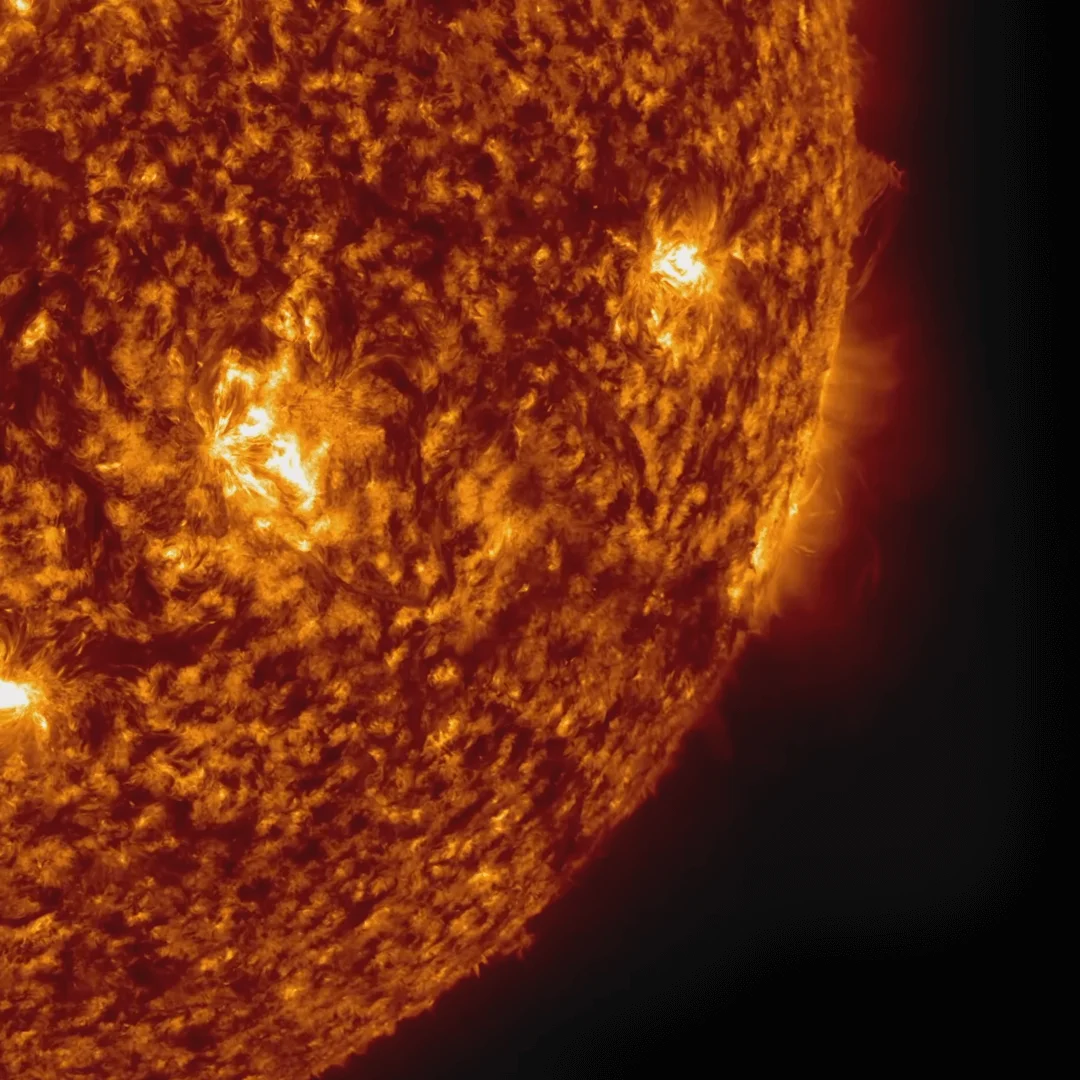
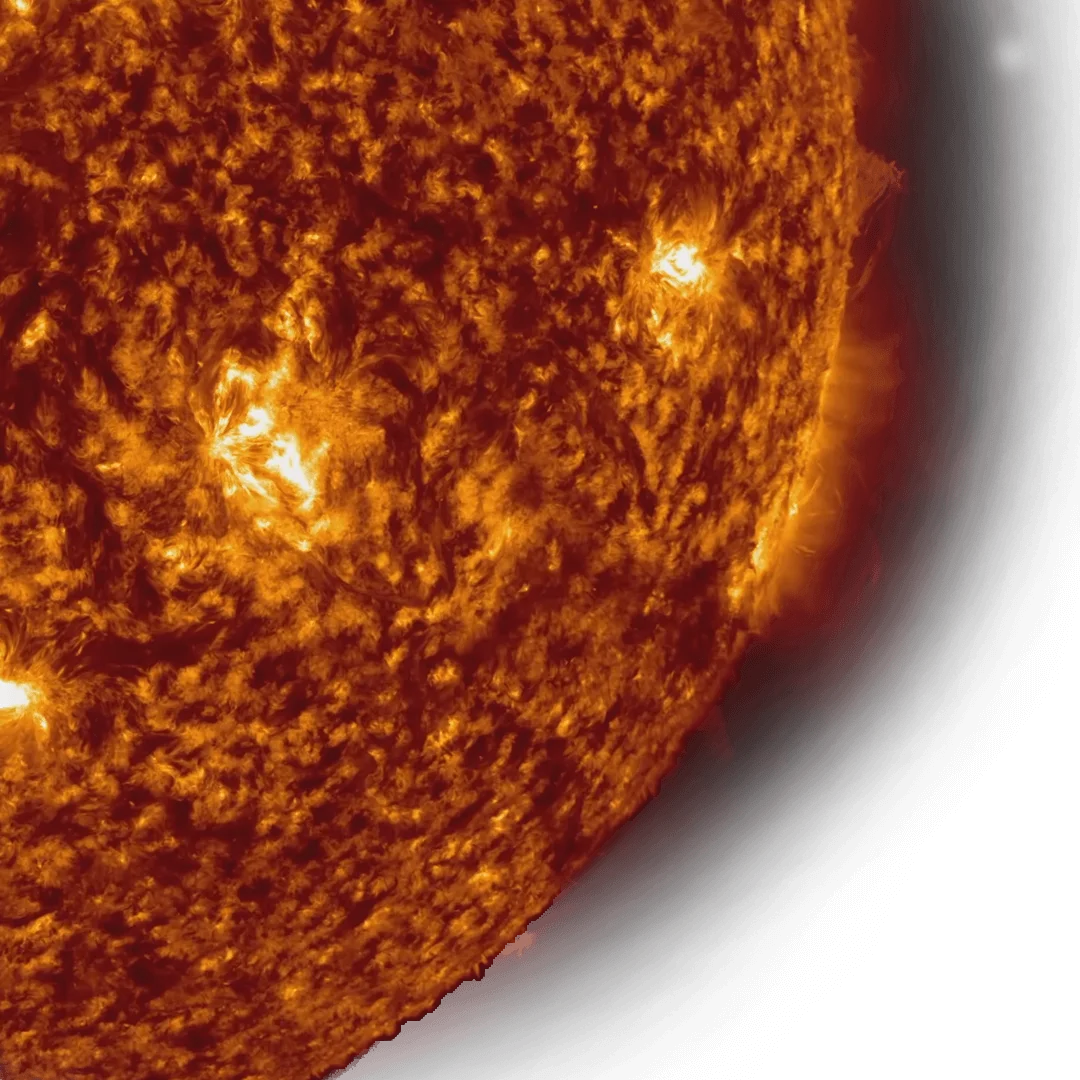
Replace sun poster

Changed region(s): [[0.3056, 0.0, 1.0, 1.0]]

diff --git a/src/components/Video.tsx b/src/components/Video.tsx
@@ -24,6 +24,7 @@ export default function Video({
   const checkPortrait = useMediaQuery('(orientation:portrait)')
   const [canPlay, setCanPlay] = useState(false)
   const [animationComplete, setAnimationComplete] = useState(false)
+  const [posterAnimationComplete, setPosterAnimationComplete] = useState(false)
 
   const ref = useRef<HTMLVideoElement>(null)
 
@@ -45,8 +46,8 @@ export default function Video({
   return (
     <div
       className={`scale-[70%] xl:scale-[80%] ${
-        isSun ? 'isSun !scale-100 portrait:rotate-90' : ''
-      } ${isSaturn ? 'isSaturn !scale-100 place-self-start' : ''} 
+        isSun ? '!scale-100 portrait:rotate-90' : ''
+      } ${isSaturn ? '!scale-100 place-self-start' : ''} 
     `}
     >
       {isImage && (
@@ -65,15 +66,19 @@ export default function Video({
         <>
           <motion.img
             key={isPortrait.toString() + 'poster'}
-            variants={isPortrait ? videoFromTopVariants : videoVariants}
+            variants={
+              isPortrait && !isSun ? videoFromTopVariants : videoVariants
+            }
             initial="enter"
             animate="center"
             exit="exit"
-            onAnimationStart={() => setAnimationComplete(false)}
+            onAnimationStart={() => setPosterAnimationComplete(false)}
             onAnimationComplete={() => {
-              setAnimationComplete(true)
+              setPosterAnimationComplete(true)
             }}
-            className={`${canPlay ? 'hidden' : ''}`}
+            className={`${
+              isSun ? 'isSun h-screen object-cover portrait:h-full ' : ''
+            } ${canPlay && posterAnimationComplete ? 'hidden' : ''}`}
             src={videoPoster}
             alt={videoPoster}
           />
@@ -100,8 +105,8 @@ export default function Video({
               setAnimationComplete(true)
             }}
             className={`${
-              isSun ? 'isSun h-screen object-cover portrait:h-full' : ''
-            } ${canPlay ? 'block' : 'hidden'} ${
+              isSun ? 'isSun h-screen object-cover portrait:h-full ' : ''
+            } ${canPlay && posterAnimationComplete ? 'block' : 'hidden'} ${
               animationComplete ? 'setClipPath' : ''
             }`}
             src={videoSrc}

diff --git a/src/utils/animationVariants.ts b/src/utils/animationVariants.ts
@@ -5,18 +5,15 @@ export const videoVariants = {
     scale: 1.5,
     rotate: -20,
     x: -500,
-    // clipPath: 'circle(500px at center)',
   },
   center: {
     scale: 1,
     rotate: 0,
     x: 0,
-    // clipPath: `circle(400px at center)`,
     transition: { type: 'tween', duration: 1, ease: 'easeOut' },
   },
   exit: {
     x: -1000,
-    // clipPath: 'circle(500px at center)',
     transition: { type: 'tween', duration: 0.3, ease: 'easeIn' },
   },
 }
@@ -25,18 +22,15 @@ export const videoFromTopVariants = {
   enter: {
     opacity: 1,
     y: -500,
-    // clipPath: 'circle(500px at center)',
   },
   center: {
     opacity: 1,
     y: 0,
-    // clipPath: `circle(400px at center)`,
     transition: { type: 'tween', duration: 1, ease: 'easeOut' },
   },
   exit: {
     opacity: 0,
     y: -1000,
-    // clipPath: 'circle(500px at center)',
     transition: { type: 'tween', duration: 0.3, ease: 'easeIn' },
   },
 }
